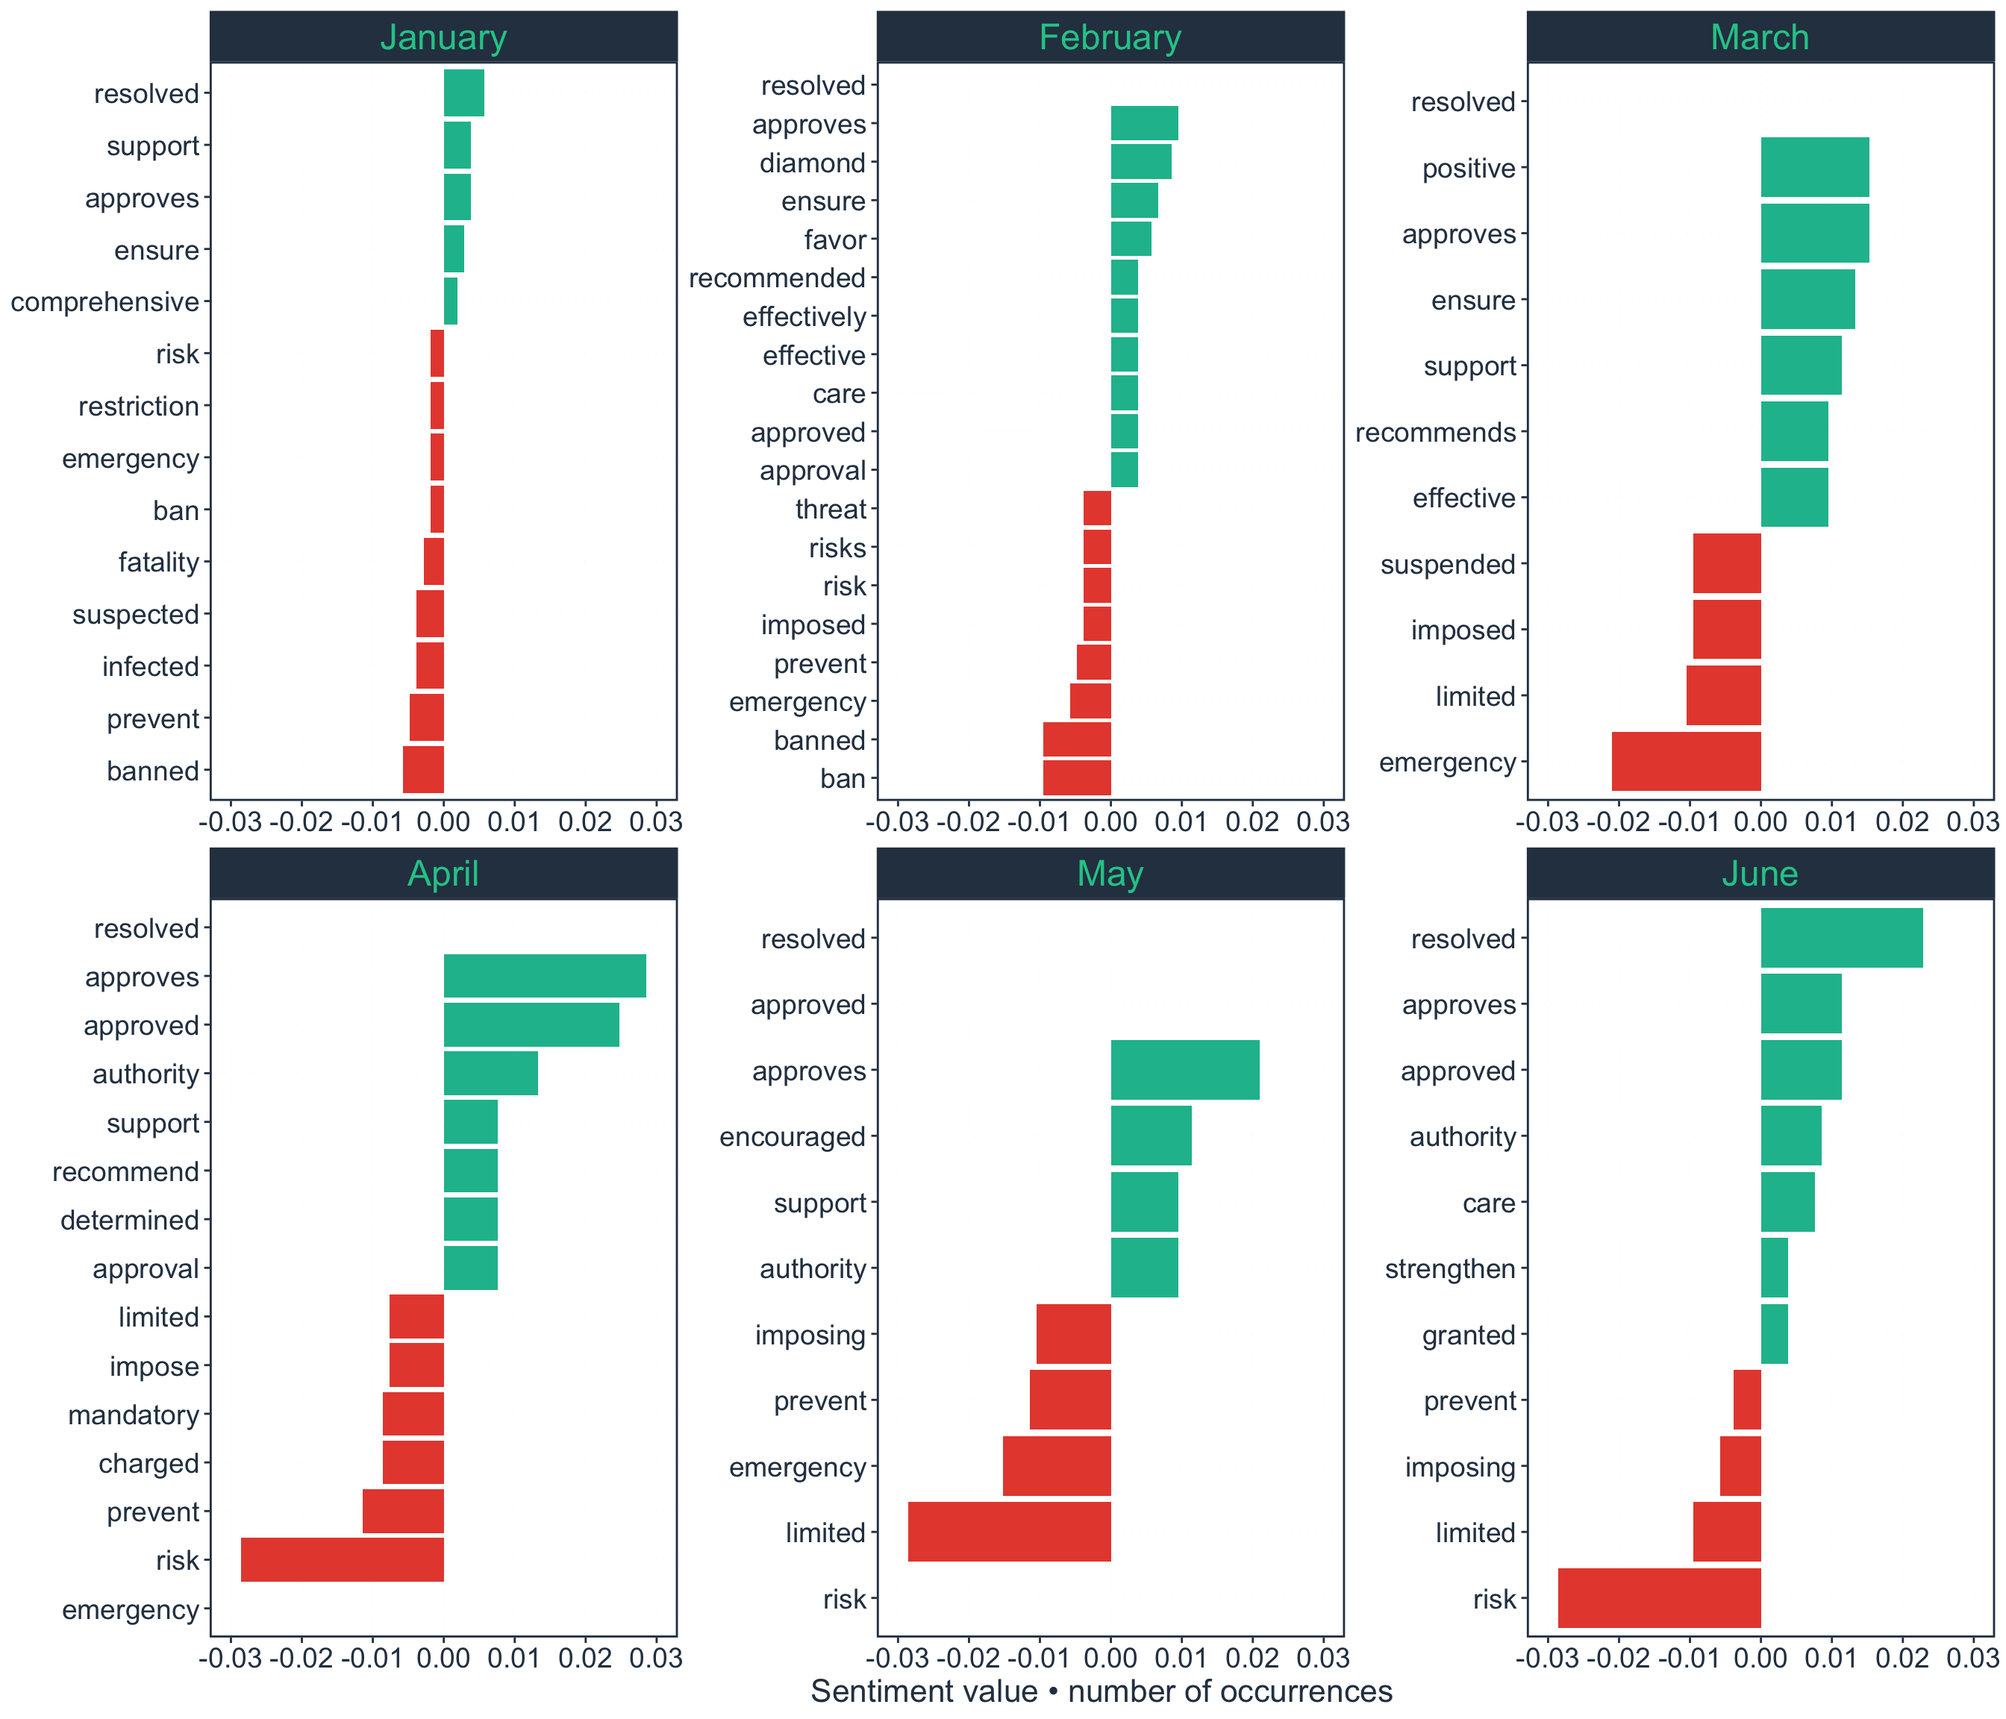
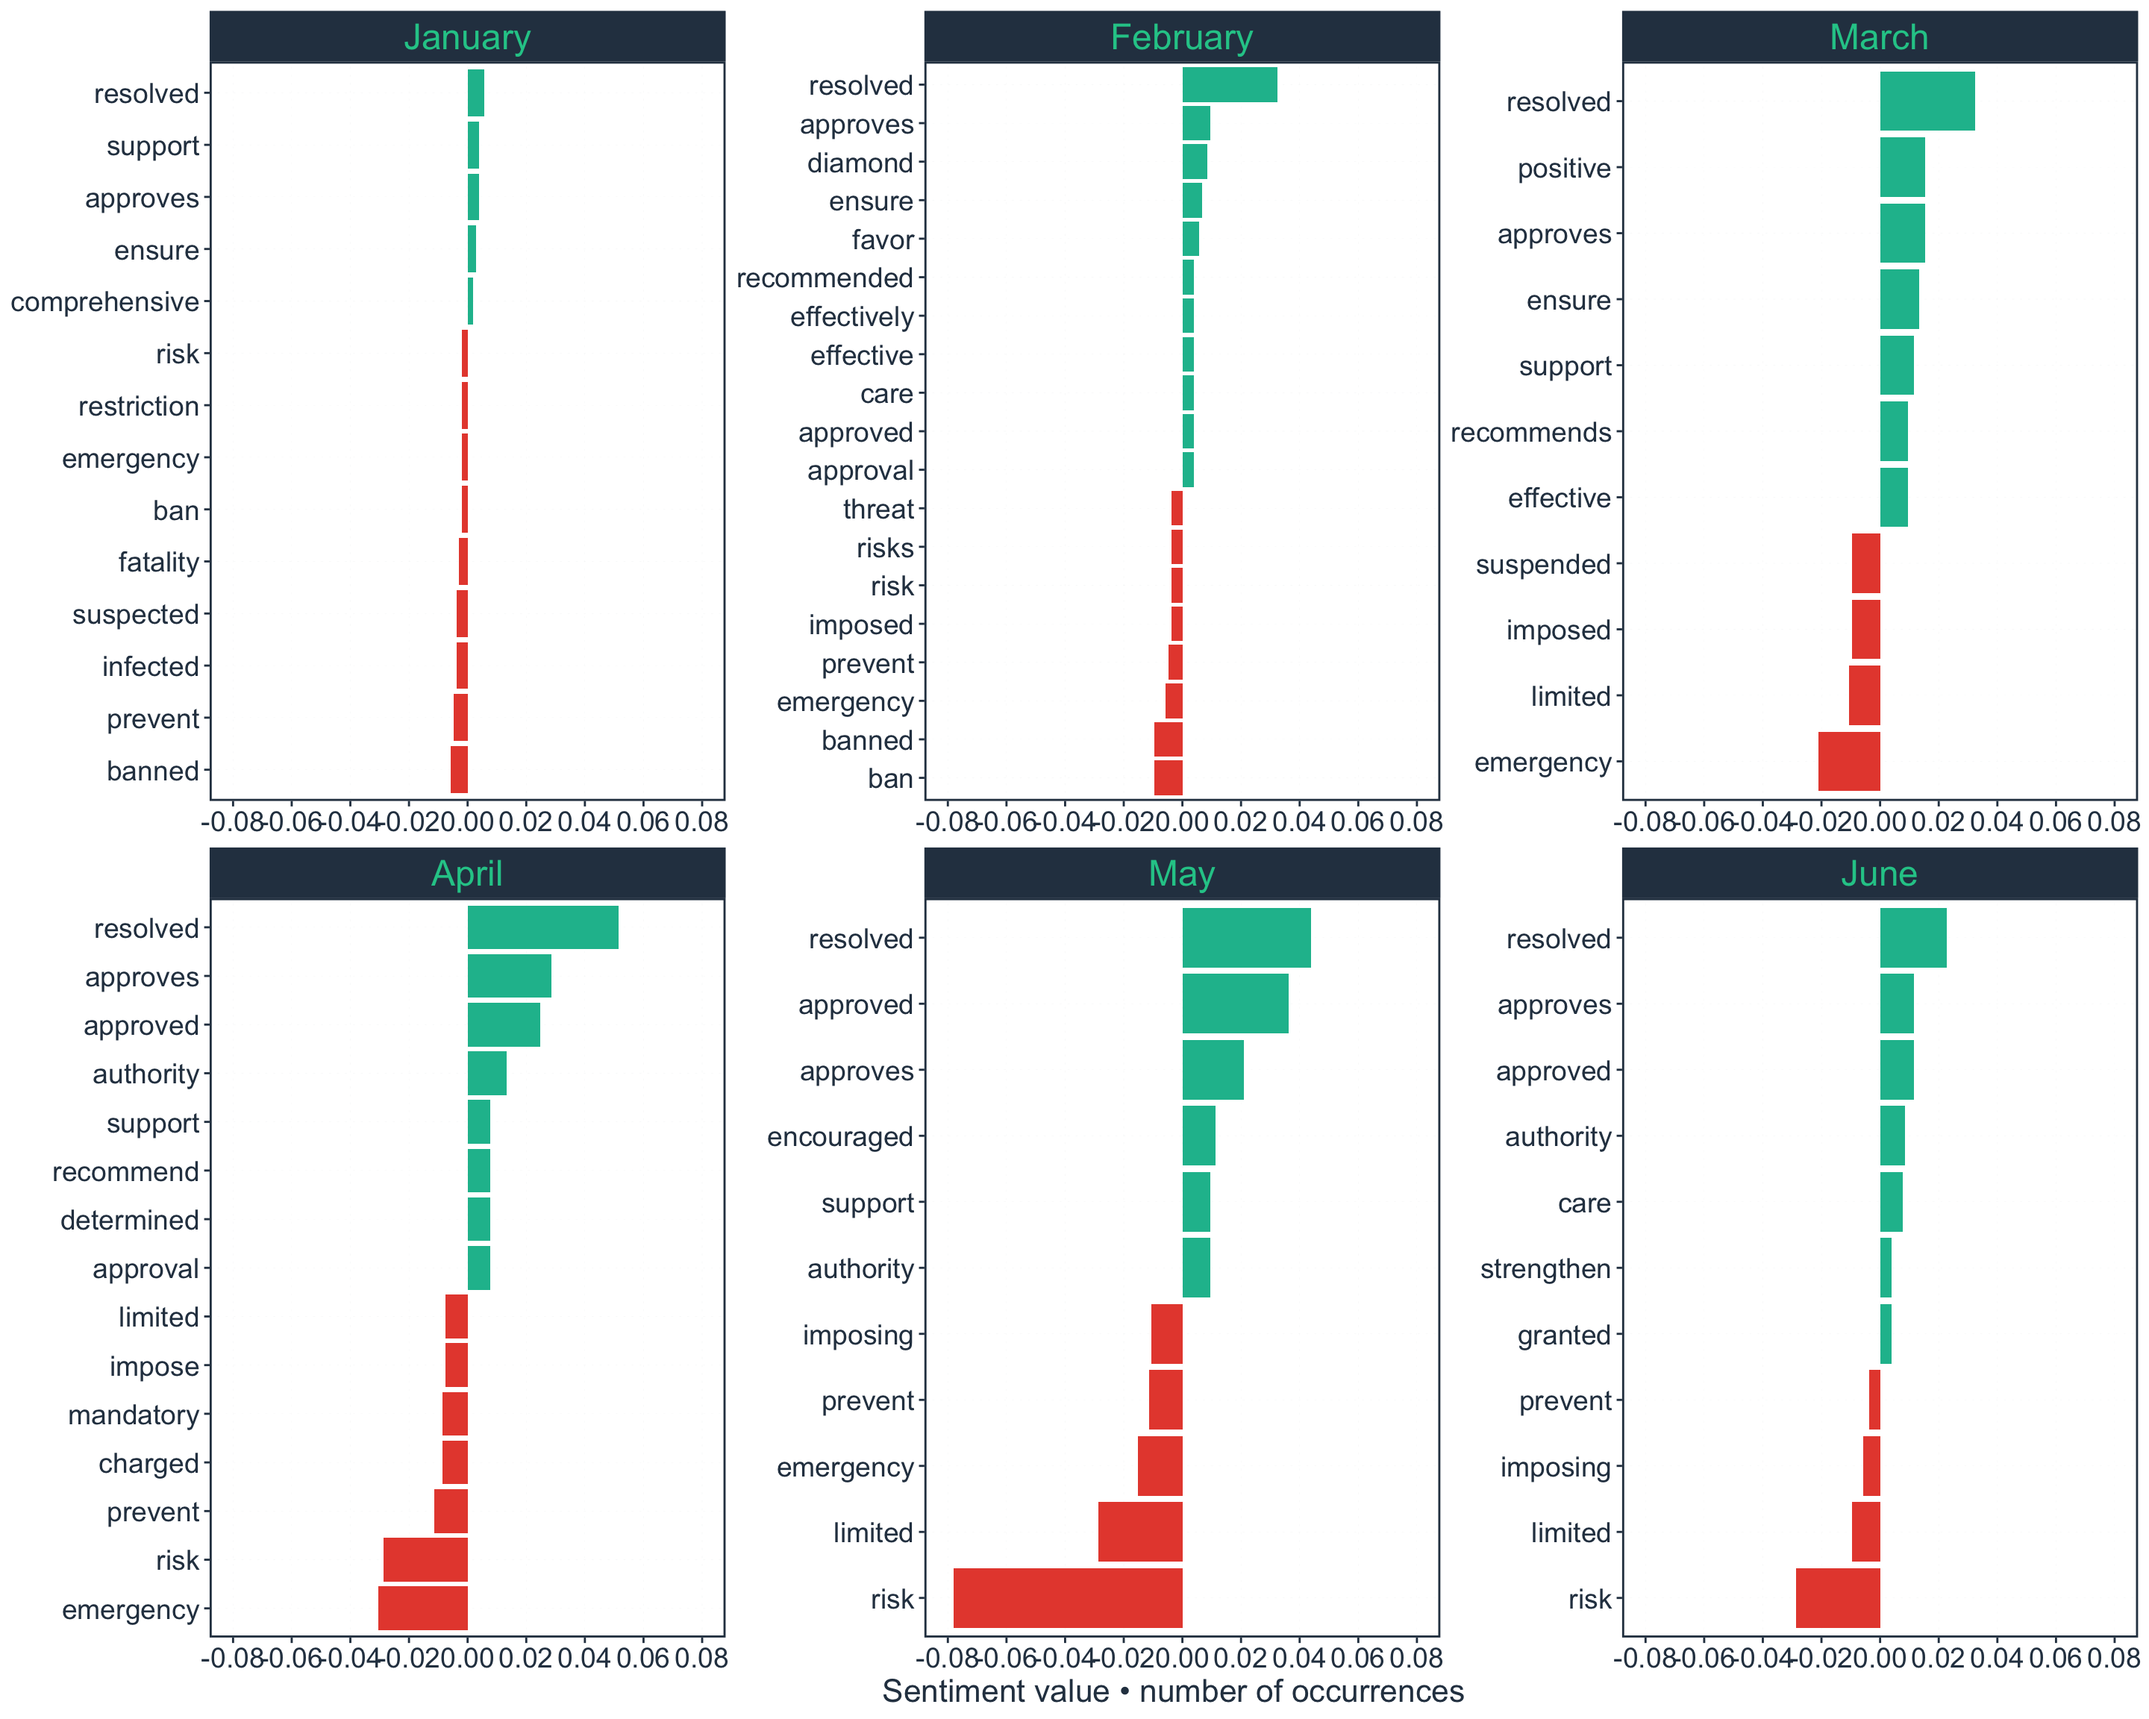
publish site

diff --git a/post/applying-sentiment-analysis/index.html b/post/applying-sentiment-analysis/index.html
@@ -604,7 +604,7 @@
   
   <span class="middot-divider"></span>
   <span class="article-reading-time">
-    19 min read
+    20 min read
   </span>
   
 
@@ -1001,18 +1001,24 @@ Figure 7: Average sentiment value per resolution
 </div>
 <div id="question-6-what-is-the-average-sentiment-value-contribution-of-specific-words" class="section level3">
 <h3>Question 6: What is the average sentiment value contribution of specific words</h3>
+<p>To answer this question we use the <code>AFINN</code> sentiment lexicon which assigns a numerical score for positive and negative sentiments ranging from -5 to +5 respectively. Once we have assigned sentiment scores to the words, we do a counting of the words and then calculate a sentiment value per word by multiplying the sentiment score for the word with the proportion of the frequency of the word with the total frequency of all the words.</p>
+<p><span class="math display">\[ \text{Sentiment value} ~ = ~ \text{Sentiment score} ~ \times ~ \frac{\text{Word frequency}}{\sum{\text{World frequency}}}\]</span></p>
+<p>To get to this answer, we summarise and visualise the data as follows:</p>
 <div class="figure" style="text-align: center"><span id="fig:sentiment4a"></span>
 <img src="/post/applying-sentiment-analysis/index_files/figure-html/sentiment4a-1.png" alt="Sentiment value of words across all resolutions" width="1152" />
 <p class="caption">
 Figure 8: Sentiment value of words across all resolutions
 </p>
 </div>
+<p>Of the top ten most frequent words from all the resolutions, 6 have positive sentiment value and 4 with negative sentiment value. All top ten words are indicative of the nature of the text dataset that we are analysing. The top words for positive sentiment have roughly similar sentiment value as the top words for negative sentiment.</p>
+<p>We disaggregate the results for resolutions per month as below:</p>
 <div class="figure" style="text-align: center"><span id="fig:sentiment4b"></span>
-<img src="/post/applying-sentiment-analysis/index_files/figure-html/sentiment4b-1.png" alt="Sentiment value of words across all resolutions by month" width="1344" />
+<img src="/post/applying-sentiment-analysis/index_files/figure-html/sentiment4b-1.png" alt="Sentiment value of words across all resolutions by month" width="1440" />
 <p class="caption">
 Figure 9: Sentiment value of words across all resolutions by month
 </p>
 </div>
+<p>Resolutions for April and May mirror the words and the sentiment value for the entire dataset.</p>
 <p><br>
 <br></p>
 </div>

diff --git a/index.html b/index.html
@@ -833,7 +833,7 @@ use of the model specific to the Philippines as part of the CoMo Consortium.</p>
   
   <span class="middot-divider"></span>
   <span class="article-reading-time">
-    19 min read
+    20 min read
   </span>
   
 

diff --git a/post/index.html b/post/index.html
@@ -589,7 +589,7 @@
   
   <span class="middot-divider"></span>
   <span class="article-reading-time">
-    19 min read
+    20 min read
   </span>
   
 

diff --git a/project/topic-modelling/index.html b/project/topic-modelling/index.html
@@ -963,7 +963,7 @@
   
   <span class="middot-divider"></span>
   <span class="article-reading-time">
-    19 min read
+    20 min read
   </span>
   
 
